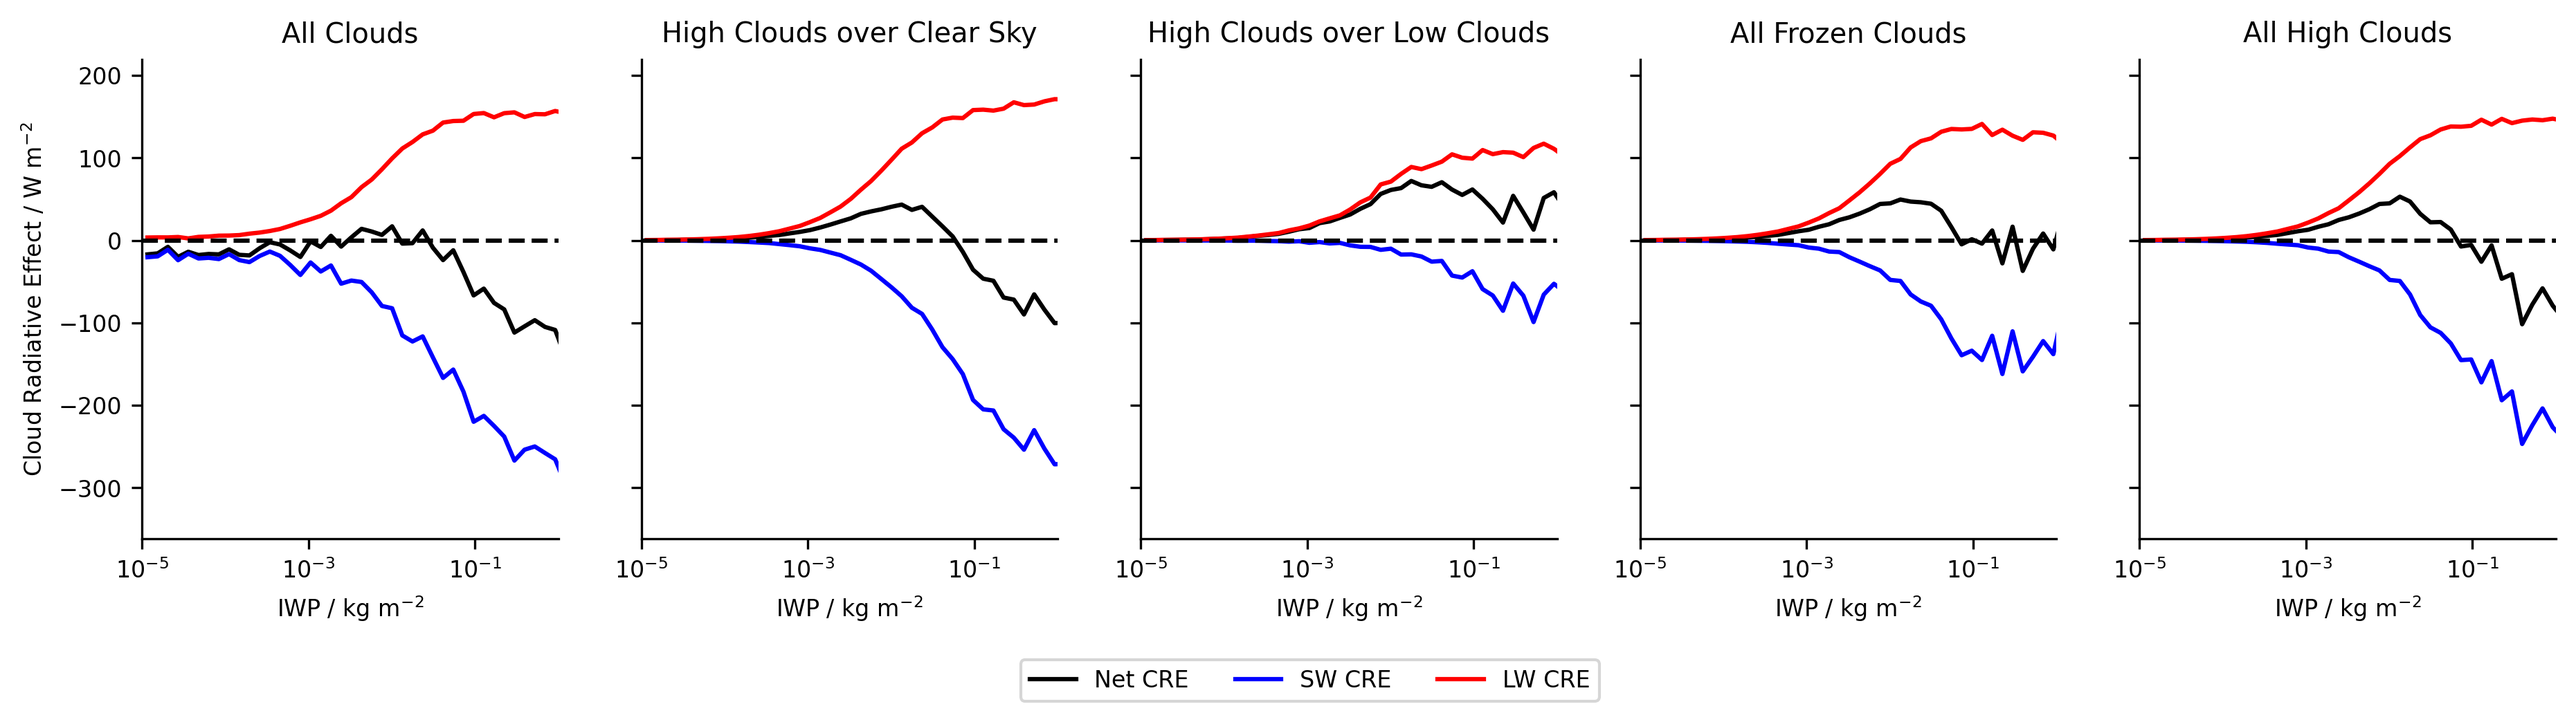
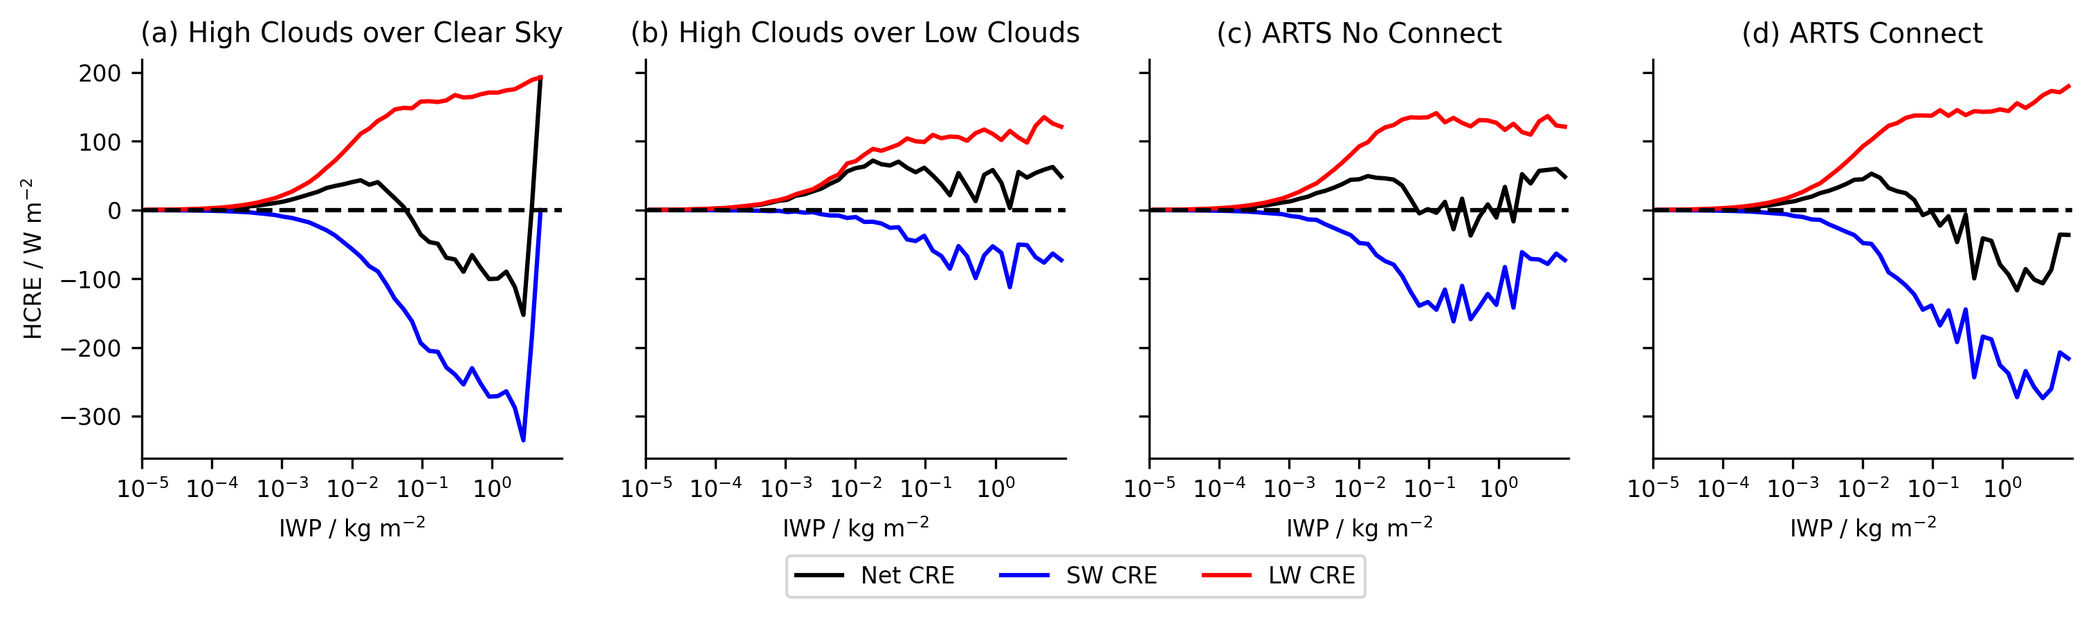
Implement option to adjust albedo for mixed clouds

diff --git a/scripts/plot/paper/cre_comparison.py b/scripts/plot/paper/cre_comparison.py
@@ -2,13 +2,24 @@
 import numpy as np
 import matplotlib.pyplot as plt
 from src.read_data import load_cre
+import pandas as pd
+import xarray as xr
+import pickle
 
 # %% load data
 cre_binned, cre_interpolated, cre_interpolated_average = load_cre()
+ds = xr.open_dataset(
+    "/work/bm1183/m301049/nextgems_profiles/cycle3/interp_representative_sample.nc"
+)
+ds_monsoon = xr.open_dataset("/work/bm1183/m301049/nextgems_profiles/monsoon/raw_data_converted.nc")
+path = "/work/bm1183/m301049/cm_results/"
+run = "icon_mons_const_lc"
+with open(path + run + ".pkl", "rb") as f:
+    result = pickle.load(f)
 
 # %% plot mean CRE vs IWP
 IWP_points = cre_interpolated_average["IWP"]
-fig, axes = plt.subplots(1, 5, sharey="row", figsize=(15, 3), sharex='row')
+fig, axes = plt.subplots(1, 4, sharey="row", figsize=(12, 2.5), sharex='row')
 plt.rcParams.update({'font.size': 8})
 
 
@@ -32,20 +43,17 @@ def plot_cre(ax, mode, iwp):
         color="r",
     )
 
-# normal cre - all clouds included
-plot_cre(axes[0], mode="all_clouds", iwp=IWP_points)
-
 # ice only
-plot_cre(axes[1], mode='ice_only', iwp=IWP_points)
+plot_cre(axes[0], mode='ice_only', iwp=IWP_points)
 
 # ice over low clouds
-plot_cre(axes[2], mode="ice_over_lc", iwp=IWP_points)
+plot_cre(axes[1], mode="ice_over_lc", iwp=IWP_points)
 
 # all high clouds
-plot_cre(axes[3], mode="all", iwp=IWP_points)
+plot_cre(axes[2], mode="all", iwp=IWP_points)
 
 # considering connectedness
-plot_cre(axes[4], mode="connected", iwp=IWP_points)
+plot_cre(axes[3], mode="connected", iwp=IWP_points)
 
 
 for ax in axes:
@@ -54,19 +62,44 @@ for ax in axes:
     ax.set_xscale("log")
     ax.set_xlabel("IWP / kg m$^{-2}$")
     ax.axhline(0, color="k", linestyle="--")
-    ax.set_xlim(1e-5, 1)
-    ax.set_xticks([1e-5, 1e-3, 1e-1])
+    ax.set_xlim(1e-5, 1e1)
+    ax.set_xticks([1e-5, 1e-4, 1e-3, 1e-2, 1e-1, 1])
 
-axes[0].set_ylabel("Cloud Radiative Effect / W m$^{-2}$")
-axes[0].set_title("All Clouds")
-axes[1].set_title("High Clouds over Clear Sky")
-axes[2].set_title("High Clouds over Low Clouds")
-axes[3].set_title("All Frozen Clouds")
-axes[4].set_title("All High Clouds")
+axes[0].set_ylabel("HCRE / W m$^{-2}$")
+axes[0].set_title("(a) High Clouds over Clear Sky")
+axes[1].set_title("(b) High Clouds over Low Clouds")
+axes[2].set_title("(c) ARTS No Connect")
+axes[3].set_title("(d) ARTS Connect")
 
 # legend outside of axes
 handles, labels = axes[1].get_legend_handles_labels()
-fig.legend(handles, labels, loc="lower center", ncol=3, bbox_to_anchor=(0.5, -0.17))
+fig.legend(handles, labels, loc="lower center", ncol=3, bbox_to_anchor=(0.5, -0.18))
 fig.savefig("plots/paper/CREs.png", dpi=300, bbox_inches="tight")
 
-# %% 
+# %% calculate cumulative HCRE for table 
+n_cells = len(ds_monsoon.lat) * len(ds_monsoon.lon)
+
+hist, edges = np.histogram(
+    ds_monsoon["IWP"].where(ds_monsoon["mask_height"]), bins=cre_interpolated_average["IWP_bins"]
+)
+hist = hist / n_cells
+weighted_sw = cre_interpolated_average["connected_sw"] * hist
+weighted_lw = cre_interpolated_average["connected_lw"] * hist
+weighted_net = weighted_sw + weighted_lw
+weighted_sw_cm = result["SW_cre"] * hist
+weighted_lw_cm = result["LW_cre"] * hist
+weighted_net_cm = weighted_sw_cm + weighted_lw_cm
+ 
+table_cre = pd.DataFrame(index=['ARTS Conn', 'ARTS No Conn', 'Concept'], columns=['SW', 'LW', 'Net'])
+table_cre.loc['ARTS Conn']['SW'] = np.round(float((cre_interpolated_average["connected_sw"] * hist).sum().values), 1)
+table_cre.loc['ARTS Conn']['LW'] = np.round(float((cre_interpolated_average["connected_lw"] * hist).sum().values), 1)
+table_cre.loc['ARTS Conn']['Net'] = table_cre.loc['ARTS Conn']['SW'] + table_cre.loc['ARTS Conn']['LW']
+table_cre.loc['ARTS No Conn']['SW'] = np.round(float((cre_interpolated_average["all_sw"] * hist).sum().values), 1)
+table_cre.loc['ARTS No Conn']['LW'] = np.round(float((cre_interpolated_average["all_lw"] * hist).sum().values), 1)
+table_cre.loc['ARTS No Conn']['Net'] = table_cre.loc['ARTS No Conn']['SW'] + table_cre.loc['ARTS No Conn']['LW']
+table_cre.loc['Concept']['SW'] = np.round(float((result["SW_cre"] * hist).sum()), 1)
+table_cre.loc['Concept']['LW'] = np.round(float((result["LW_cre"] * hist).sum()), 1)
+table_cre.loc['Concept']['Net'] = table_cre.loc['Concept']['SW'] + table_cre.loc['Concept']['LW']
+table_cre
+
+# %%

diff --git a/src/hc_model.py b/src/hc_model.py
@@ -72,12 +72,12 @@ def binning(IWP_bins, data, IWP):
         Binned data.
     """
     if type(data) == float or type(data) == np.float64:
-        return data 
+        return data
     else:
         return data.groupby_bins(IWP, IWP_bins).mean()
 
 
-def calc_hc_albedo(IWP, alpha_hc_params):
+def calc_ice_albedo(IWP, alpha_hc_params):
     """
     Calculates the high-cloud albedo.
 
@@ -95,6 +95,48 @@ def calc_hc_albedo(IWP, alpha_hc_params):
     """
     fitted_vals = logistic(np.log10(IWP), *alpha_hc_params, 0)
     return fitted_vals
+
+
+def calc_mixed_albedo(alpha_ice, alpha_liq):
+    """
+    Calculates the mixed albedo.
+
+    PARAMETERS:
+    ---------------------------
+    alpha_ice: array-like
+        High cloud albedo.
+    alpha_liq: array-like
+        Low cloud albedo.
+
+    RETURNS:
+    ---------------------------
+    mixed_albedo: array-like
+        Mixed albedo.
+    """
+    mixed_albedo = alpha_ice + alpha_liq - (alpha_liq * alpha_ice)
+    return mixed_albedo
+
+
+def calc_hc_albedo(alpha_ice, alpha_mixed, delta_f):
+    """
+    Calculates the high-cloud albedo.
+
+    PARAMETERS:
+    ---------------------------
+    alpha_ice: array-like
+        High cloud albedo.
+    alpha_mixed: array-like
+        Mixed albedo.
+    delta_f: array-like
+        Delta f.
+
+    RETURNS:
+    ---------------------------
+    high_cloud_albedo: array-like
+        High cloud albedo.
+    """
+    high_cloud_albedo = (1 - delta_f) * alpha_ice + delta_f * alpha_mixed
+    return high_cloud_albedo
 
 
 def calc_hc_emissivity(IWP, em_hc_params):
@@ -253,6 +295,7 @@ def hc_lw_cre(em_hc, T_h, R_t, sigma):
     """
     return em_hc * ((-1 * sigma * T_h**4) - R_t)
 
+
 def ac_sw_cre(alpha_cs, alpha_t, alpha_hc, SW_in):
     """
     Calculates the SW CRE of the entire cloud population (hc + lc).
@@ -273,7 +316,10 @@ def ac_sw_cre(alpha_cs, alpha_t, alpha_hc, SW_in):
     SW_cre: array-like
         SW CRE of the high clouds.
     """
-    return -SW_in * (alpha_hc + (alpha_t * (1 - alpha_hc) ** 2) / (1 - alpha_t * alpha_hc) - alpha_cs)
+    return -SW_in * (
+        alpha_hc + (alpha_t * (1 - alpha_hc) ** 2) / (1 - alpha_t * alpha_hc) - alpha_cs
+    )
+
 
 def ac_lw_cre(emm_hc, T_h, R_t, R_cs, h20_corr, sigma):
     """
@@ -299,7 +345,7 @@ def ac_lw_cre(emm_hc, T_h, R_t, R_cs, h20_corr, sigma):
     LW_cre: array-like
         LW CRE of the high clouds.
     """
-    return  (1 - emm_hc) * R_t - emm_hc * sigma * T_h**4 - (R_cs + h20_corr)
+    return (1 - emm_hc) * R_t - emm_hc * sigma * T_h**4 - (R_cs + h20_corr)
 
 
 def run_model(
@@ -314,6 +360,7 @@ def run_model(
     parameters,
     const_lc_quantities=None,
     prescribed_lc_quantities=None,
+    liquid_in_albedo=False,
 ):
     """
     Runs the HC Model with given input data and parameters.
@@ -351,9 +398,9 @@ def run_model(
 
     IWP_points = (IWP_bins[1:] + IWP_bins[:-1]) / 2
 
-    # calculate lc fraction if needed 
+    # calculate lc fraction if needed
     if parameters["lc_fraction"] is None:
-        lc_fraction = calc_lc_fraction(LWP, connected=connectedness, fix_val=parameters["lc_fraction"])
+        lc_fraction = calc_lc_fraction(LWP, connected=connectedness)
     else:
         lc_fraction = parameters["lc_fraction"]
 
@@ -361,7 +408,6 @@ def run_model(
     T_hc_binned = binning(IWP_bins, T_hc, IWP)
     LWP_binned = binning(IWP_bins, LWP.where(LWP > 1e-4), IWP)
     lc_fraction_binned = binning(IWP_bins, lc_fraction, IWP)
-    
 
     # calculate radiative properties below high clouds
     alpha_t = calc_alpha_t(
@@ -384,7 +430,17 @@ def run_model(
     )
 
     # calculate radiative properties of high clouds
-    alpha_hc = calc_hc_albedo(IWP_points, parameters["alpha_hc"])
+
+    if liquid_in_albedo:
+        lc_fraction_raw = calc_lc_fraction(LWP, connected=0)
+        delta_f = lc_fraction_raw - lc_fraction
+        delta_f_binned = binning(IWP_bins, delta_f, IWP)
+        alpha_ice = calc_ice_albedo(IWP_points, parameters["alpha_hc"])
+        alpha_mixed = calc_mixed_albedo(alpha_ice, const_lc_quantities["a_t"])
+        alpha_hc = calc_hc_albedo(alpha_ice, alpha_mixed, delta_f_binned)
+    else:
+        alpha_hc = calc_ice_albedo(IWP_points, parameters["alpha_hc"])
+
     em_hc = calc_hc_emissivity(IWP_points, parameters["em_hc"])
 
     # calculate HCRE

diff --git a/scripts/plot/paper/cloud_profile_iwp.py b/scripts/plot/paper/cloud_profile_iwp.py
@@ -77,7 +77,7 @@ weighted_lw_cm = result["LW_cre"] * hist
 weighted_net_cm = weighted_sw_cm + weighted_lw_cm
 
 # %% plot cloud occurence vs IWP percentiles
-fig, axes = plt.subplots(4, 1, figsize=(7, 12), height_ratios=[2, 1, 1, 1], sharex=True)
+fig, axes = plt.subplots(4, 1, figsize=(9, 12), height_ratios=[3, 1, 1, 1], sharex=True)
 
 # plot cloud fraction
 cf = axes[0].contourf(
@@ -93,67 +93,43 @@ axes[0].invert_yaxis()
 axes[0].set_ylabel("Pressure / hPa")
 axes[0].set_yticks([1000, 600, 200])
 
-# plot IWP dist
-axes[1].stairs(hist, edges, label="IWP", color="black")
-axes[1].set_xscale("log")
-axes[1].set_ylabel("P")
-
 # plot CRE
-axes[2].axhline(0, color="grey", linestyle="--")
-axes[2].plot(
+axes[1].axhline(0, color="grey", linestyle="--")
+axes[1].plot(
     cre_interpolated_average.IWP,
     cre_interpolated_average["connected_sw"],
     label="SW",
     color="blue",
-    linestyle="--",
+    linestyle="-",
 )
-axes[2].plot(
+axes[1].plot(
     cre_interpolated_average.IWP,
     cre_interpolated_average["connected_lw"],
     label="LW",
     color="red",
-    linestyle="--",
+    linestyle="-",
 )
-axes[2].plot(
+axes[1].plot(
     cre_interpolated_average.IWP,
     cre_interpolated_average["connected_net"],
     label="Net",
     color="k",
-    linestyle="--",
+    linestyle="-",
 )
-axes[2].plot(result.index, result["SW_cre"], color="blue")
-axes[2].plot(result.index, result["LW_cre"], color="red")
-axes[2].plot(result.index, result["SW_cre"] + result["LW_cre"], color="k")
-axes[2].plot(np.linspace(1 - 6, cre_interpolated_average.IWP.min(), 100), np.zeros(100), color="k")
-axes[2].axhline(0, color="grey", linestyle="--")
-axes[2].set_ylabel("HCRE / W m$^{-2}$")
+axes[1].plot(np.linspace(1 - 6, cre_interpolated_average.IWP.min(), 100), np.ones(100)*cre_interpolated_average['connected_net'][0].values, color="k")
+axes[1].set_ylabel("HCRE / W m$^{-2}$")
+
+# plot IWP dist
+axes[2].stairs(hist, edges, label="IWP", color="black")
+axes[2].set_xscale("log")
+axes[2].set_ylabel("P")
 
 
 # plot weighted CRE
-axes[3].plot(cre_interpolated_average.IWP, weighted_sw, color="blue", linestyle="--")
-axes[3].plot(cre_interpolated_average.IWP, weighted_lw, color="red", linestyle="--")
-axes[3].plot(cre_interpolated_average.IWP, weighted_net, color="k", linestyle="--")
-axes[3].plot(cre_interpolated_average.IWP, weighted_sw_cm, label="SW", color="blue")
-axes[3].plot(cre_interpolated_average.IWP, weighted_lw_cm, label="LW", color="red")
-axes[3].plot(cre_interpolated_average.IWP, weighted_net_cm, label="Net", color="k")
+axes[3].plot(cre_interpolated_average.IWP, weighted_net.cumsum("IWP"), color="k", linestyle="-")
 axes[3].plot(np.linspace(1 - 6, cre_interpolated_average.IWP.min(), 100), np.zeros(100), color="k")
-axes[3].axhline(0, color="grey", linestyle="--")
-axes[3].plot([], [], color="grey", linestyle="--", label="ARTS")
-axes[3].plot([], [], color="grey", linestyle="-", label="Concept")
 axes[3].set_xlabel("IWP / kgm$^{-2}$")
-axes[3].set_ylabel("HCRE $\cdot$ P / W m$^{-2}$")
-
-# plot sum of CRE
-fig.subplots_adjust(bottom=0.2)
-fig.text(0.1, 0.12, r"$\sum_{IWP}$ HCRE $\cdot$ P :", color="black", fontsize=12)
-fig.text(0.3, 0.12, "ARTS", color='k') 
-fig.text(0.3, 0.1, f"SW: {weighted_sw.sum():.2f} W/m$^2$", color="blue")
-fig.text(0.3, 0.08, f"LW: {weighted_lw.sum():.2f} W/m$^2$", color="red")
-fig.text(0.3, 0.06, f"Net: {weighted_net.sum():.2f} W/m$^2$", color="black")
-fig.text(0.55, 0.12, "Concept", color='k')
-fig.text(0.55, 0.1, f"SW: {weighted_sw_cm.sum():.2f} W/m$^2$", color="blue")
-fig.text(0.55, 0.08, f"LW: {weighted_lw_cm.sum():.2f} W/m$^2$", color="red")
-fig.text(0.55, 0.06, f"Net: {weighted_net_cm.sum():.2f} W/m$^2$", color="black")
+axes[3].set_ylabel(r"$\sum_{IWP=0}^{x}C$ / W m$^{-2}$")
 
 # add colorbar
 fig.subplots_adjust(right=0.8)

diff --git a/scripts/model_runs/icon_mons.py b/scripts/model_runs/icon_mons.py
@@ -27,7 +27,6 @@ R_t_cs = cut_data(fluxes_3d['clearsky_lw_up']).isel(pressure=-1).mean().values
 SW_in = cut_data(fluxes_3d["clearsky_sw_down"]).isel(pressure=-1).mean().values
 
 # %% Set additional parameters
-parameters['threshold_lc_fraction'] = 1e-6
 parameters['lc_fraction'] = 0.175
 
 # %% set mask ans bins 
@@ -50,6 +49,6 @@ result = run_model(
 )
 # %% save result 
 path = '/work/bm1183/m301049/cm_results/'
-with open(path + 'icon_mons_const_lc.pkl', 'wb') as f:
+with open(path + 'icon_mons_const_lc_mixed.pkl', 'wb') as f:
     pickle.dump(result, f)
 # %%

diff --git a/scripts/derive_model_relations/calculate_emissivity.py b/scripts/derive_model_relations/calculate_emissivity.py
@@ -89,13 +89,12 @@ def logistic(x, L, x0, k):
 
 x = np.log10(IWP_points)
 y = mean_lw_vars["binned_emissivity"].copy()
-y[IWP_points > 1e-1] = 1
+y[y>1] = 1
 nan_mask = ~np.isnan(y)
 x = x[nan_mask]
 y = y[nan_mask]
 
 popt, pcov = curve_fit(logistic, x, y)
-popt[0] = 1
 logistic_curve = logistic(np.log10(IWP_points), *popt)
 
 # %% plot mean hv emissivity in scatterplot with IWP

diff --git a/scripts/plot/plot_arts_model_results.py b/scripts/plot/plot_arts_model_results.py
@@ -24,7 +24,7 @@ atms_raw = xr.open_dataset("/work/bm1183/m301049/nextgems_profiles/monsoon/raw_d
 
 
 path = '/work/bm1183/m301049/cm_results/'
-run = 'icon_mons_const_lc'
+run = 'icon_mons_const_lc_mixed'
 
 with open(path + run + '.pkl', 'rb') as f:
     result = pickle.load(f)
